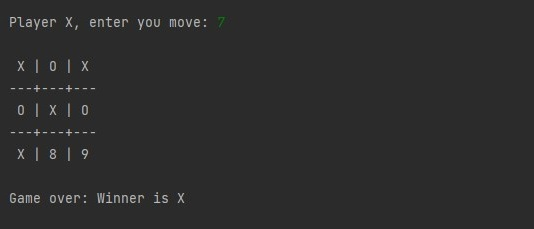
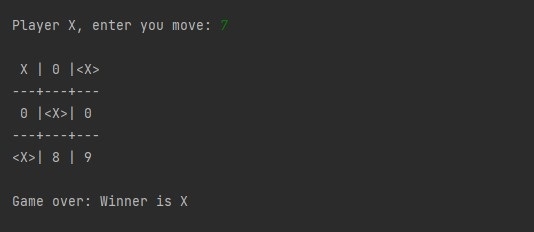
add draw win line

diff --git a/src/com/company/view/ConsolePrinter.java b/src/com/company/view/ConsolePrinter.java
@@ -5,19 +5,29 @@ import com.company.model.Figure;
 
 public class ConsolePrinter implements Printer {
 
-    private static final String FORMAT = " %c ";
+    private static final String BASIC_FORMAT = " %c ";
+    private static final String WIN_FORMAT = "<%c>";
 
     @Override
     public void printBoard(char[][] boardCharArray) {
+        printBoard(boardCharArray, 0);
+    }
+
+    @Override
+    public void printBoard(char[][] boardCharArray, int winLine) {
         int num = 1;
+        int mask = 1;
         System.out.println();
         for (int i = 0; i < boardCharArray.length; i++) {
             for (int j = 0; j < boardCharArray[i].length; j++) {
                 char ch = boardCharArray[i][j];
-                if(ch == Figure.NULL.getChar()) {
+                if (ch == Figure.NULL.getChar()) {
                     ch = Character.forDigit(num, 10);
                 }
-                System.out.printf(FORMAT, ch);
+                String format = (winLine & mask) == 0 ? BASIC_FORMAT : WIN_FORMAT;
+                mask = mask << 1;
+
+                System.out.printf(format, ch);
 
                 if (j < Board.SIDE - 1) {
                     System.out.print("|");

diff --git a/src/com/company/controller/GameController.java b/src/com/company/controller/GameController.java
@@ -22,13 +22,14 @@ public class GameController {
                 continue;
             }
 
-            printer.printBoard(game.boardCharArray());
-
             if (game.isWin()) {
+                printer.printBoard(game.boardCharArray(), game.winLine());
                 String winMessage = String.format("%s: Winner is %c", GAME_OVER, game.getCurrentChar());
                 printer.println(winMessage);
                 break;
             }
+
+            printer.printBoard(game.boardCharArray());
 
             if(game.isDraw()) {
                 printer.println(GAME_OVER + ": draw");

diff --git a/src/com/company/model/Win.java b/src/com/company/model/Win.java
@@ -28,4 +28,17 @@ class Win {
         }
         return false;
     }
+
+    public static int winLine(Board board, Figure figure) {
+        int num = board.toInt(figure);
+        for (int template : WIN_TEMPLATES) {
+            int check = num & template;
+            if (check == template) {
+                return template;
+            }
+        }
+
+        throw new IllegalArgumentException("winning line not found");
+    }
+
 }

diff --git a/src/com/company/view/Printer.java b/src/com/company/view/Printer.java
@@ -5,6 +5,8 @@ import com.company.model.Board;
 public interface Printer {
 
     void printBoard(char[][] boardCharArray);
+    void printBoard(char[][] boardCharArray, int winLine);
+
     void print(String string);
     void println(String string);
 }

diff --git a/src/com/company/model/Game.java b/src/com/company/model/Game.java
@@ -37,6 +37,10 @@ public class Game {
         return Draw.isDraw(board);
     }
 
+    public int winLine() {
+        return Win.winLine(board, current);
+    }
+
     public char[][] boardCharArray() {
         return board.toCharArray();
     }
